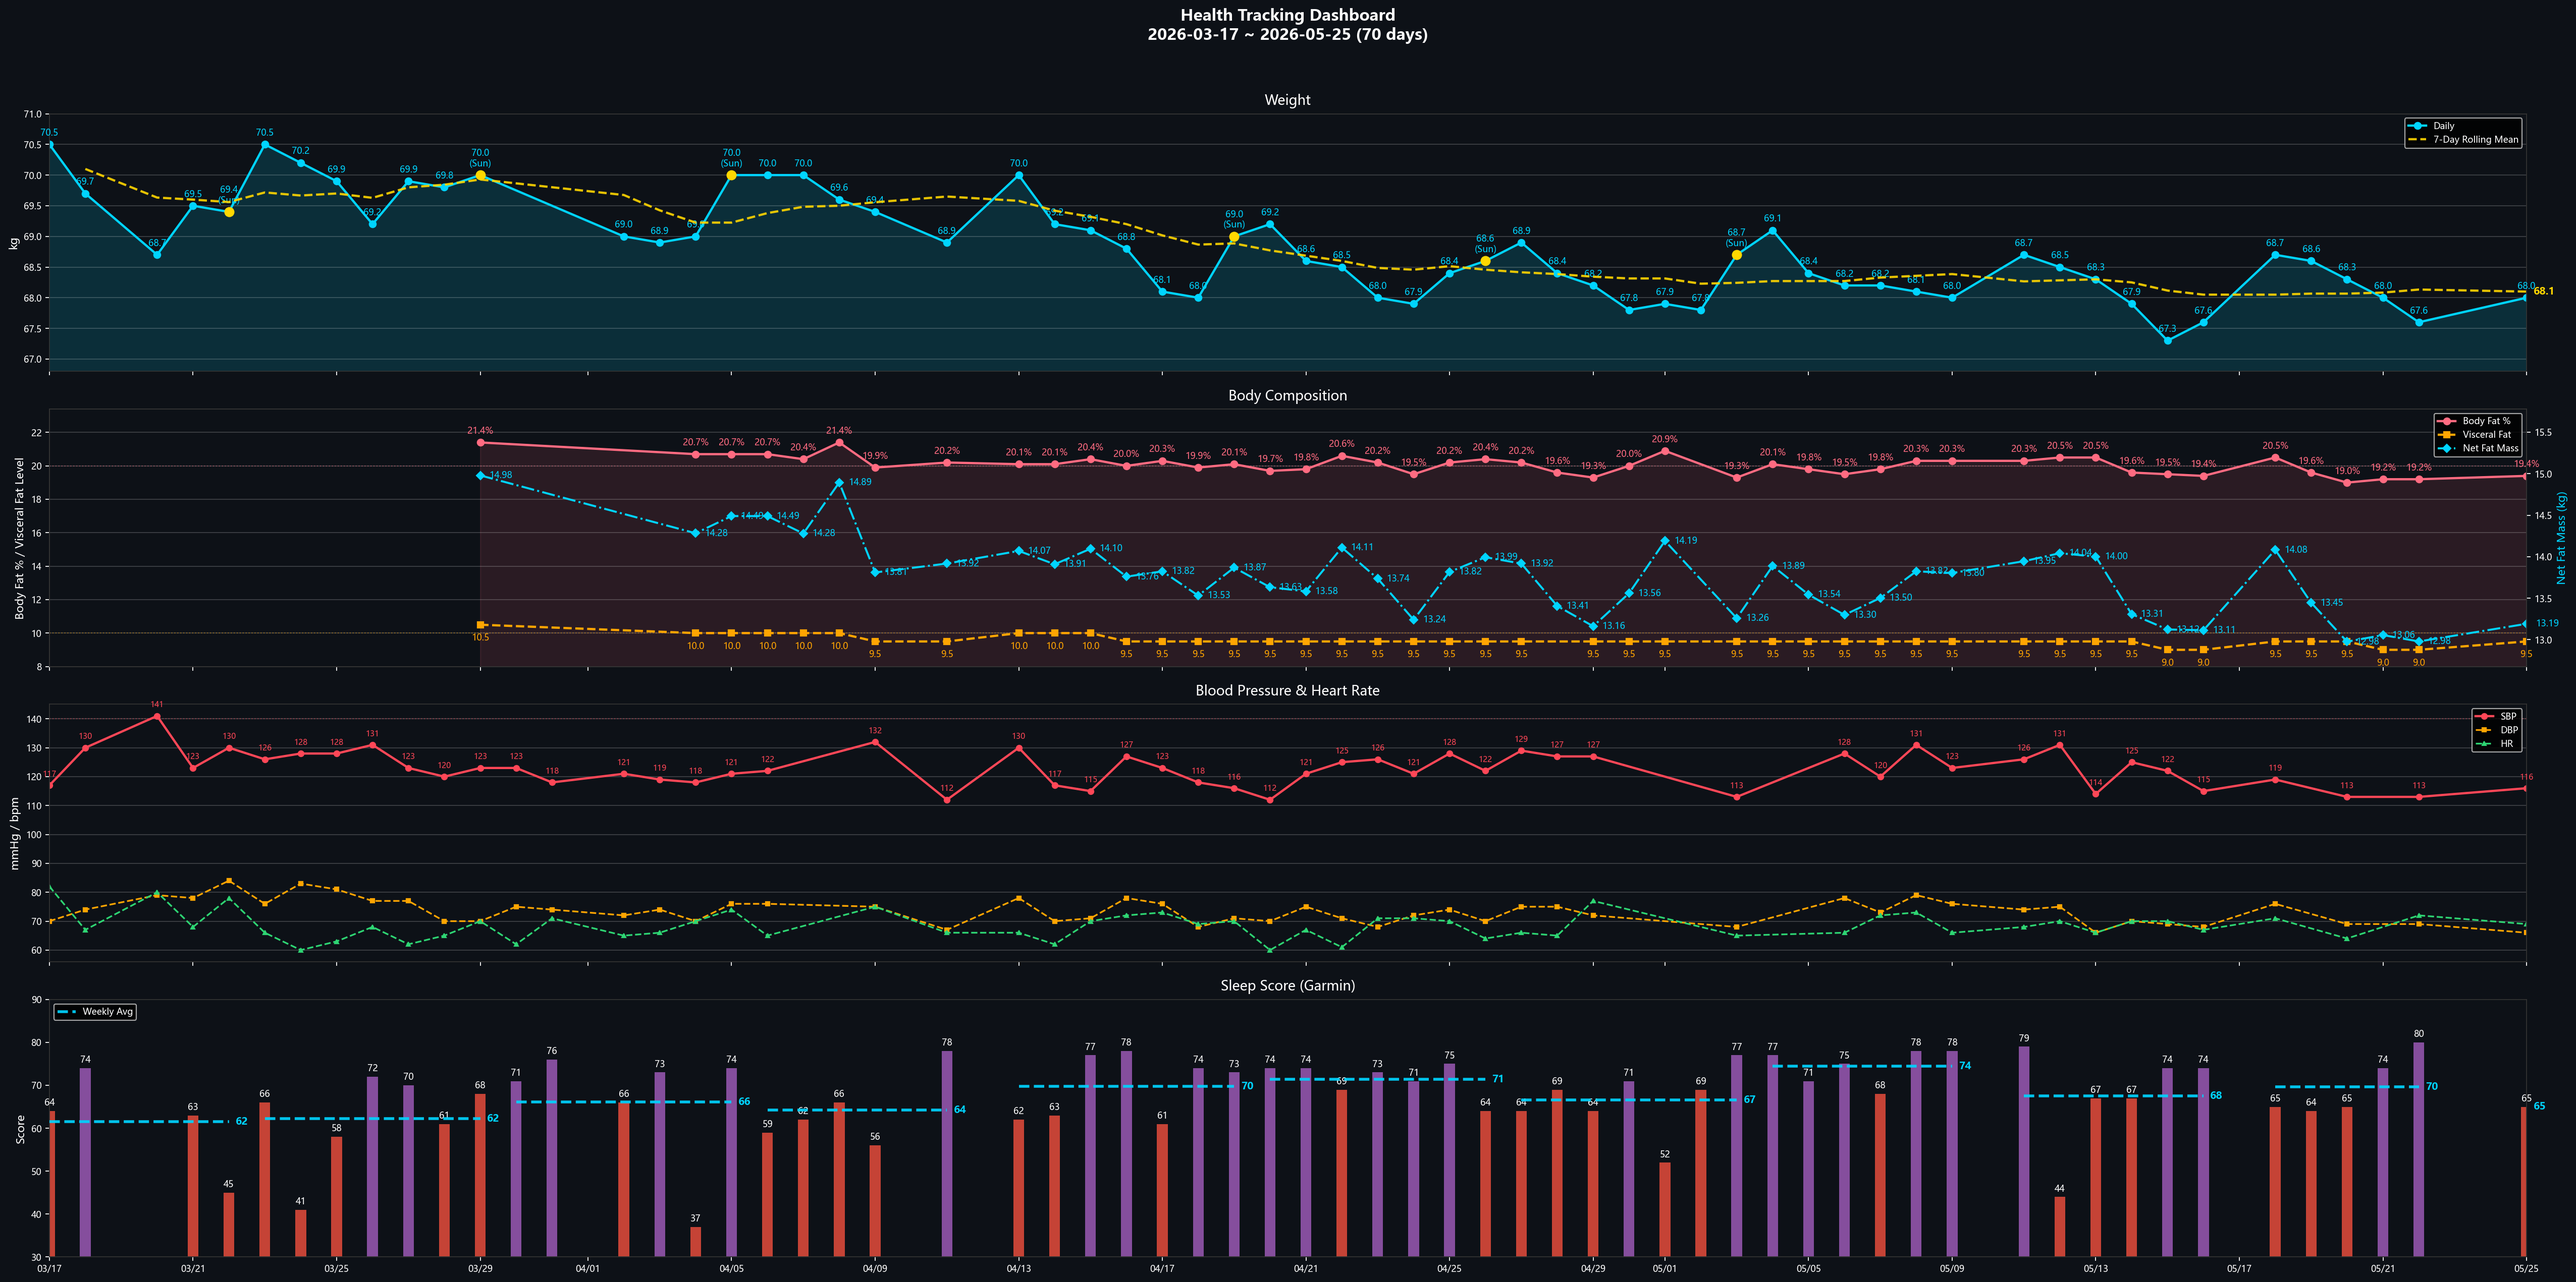
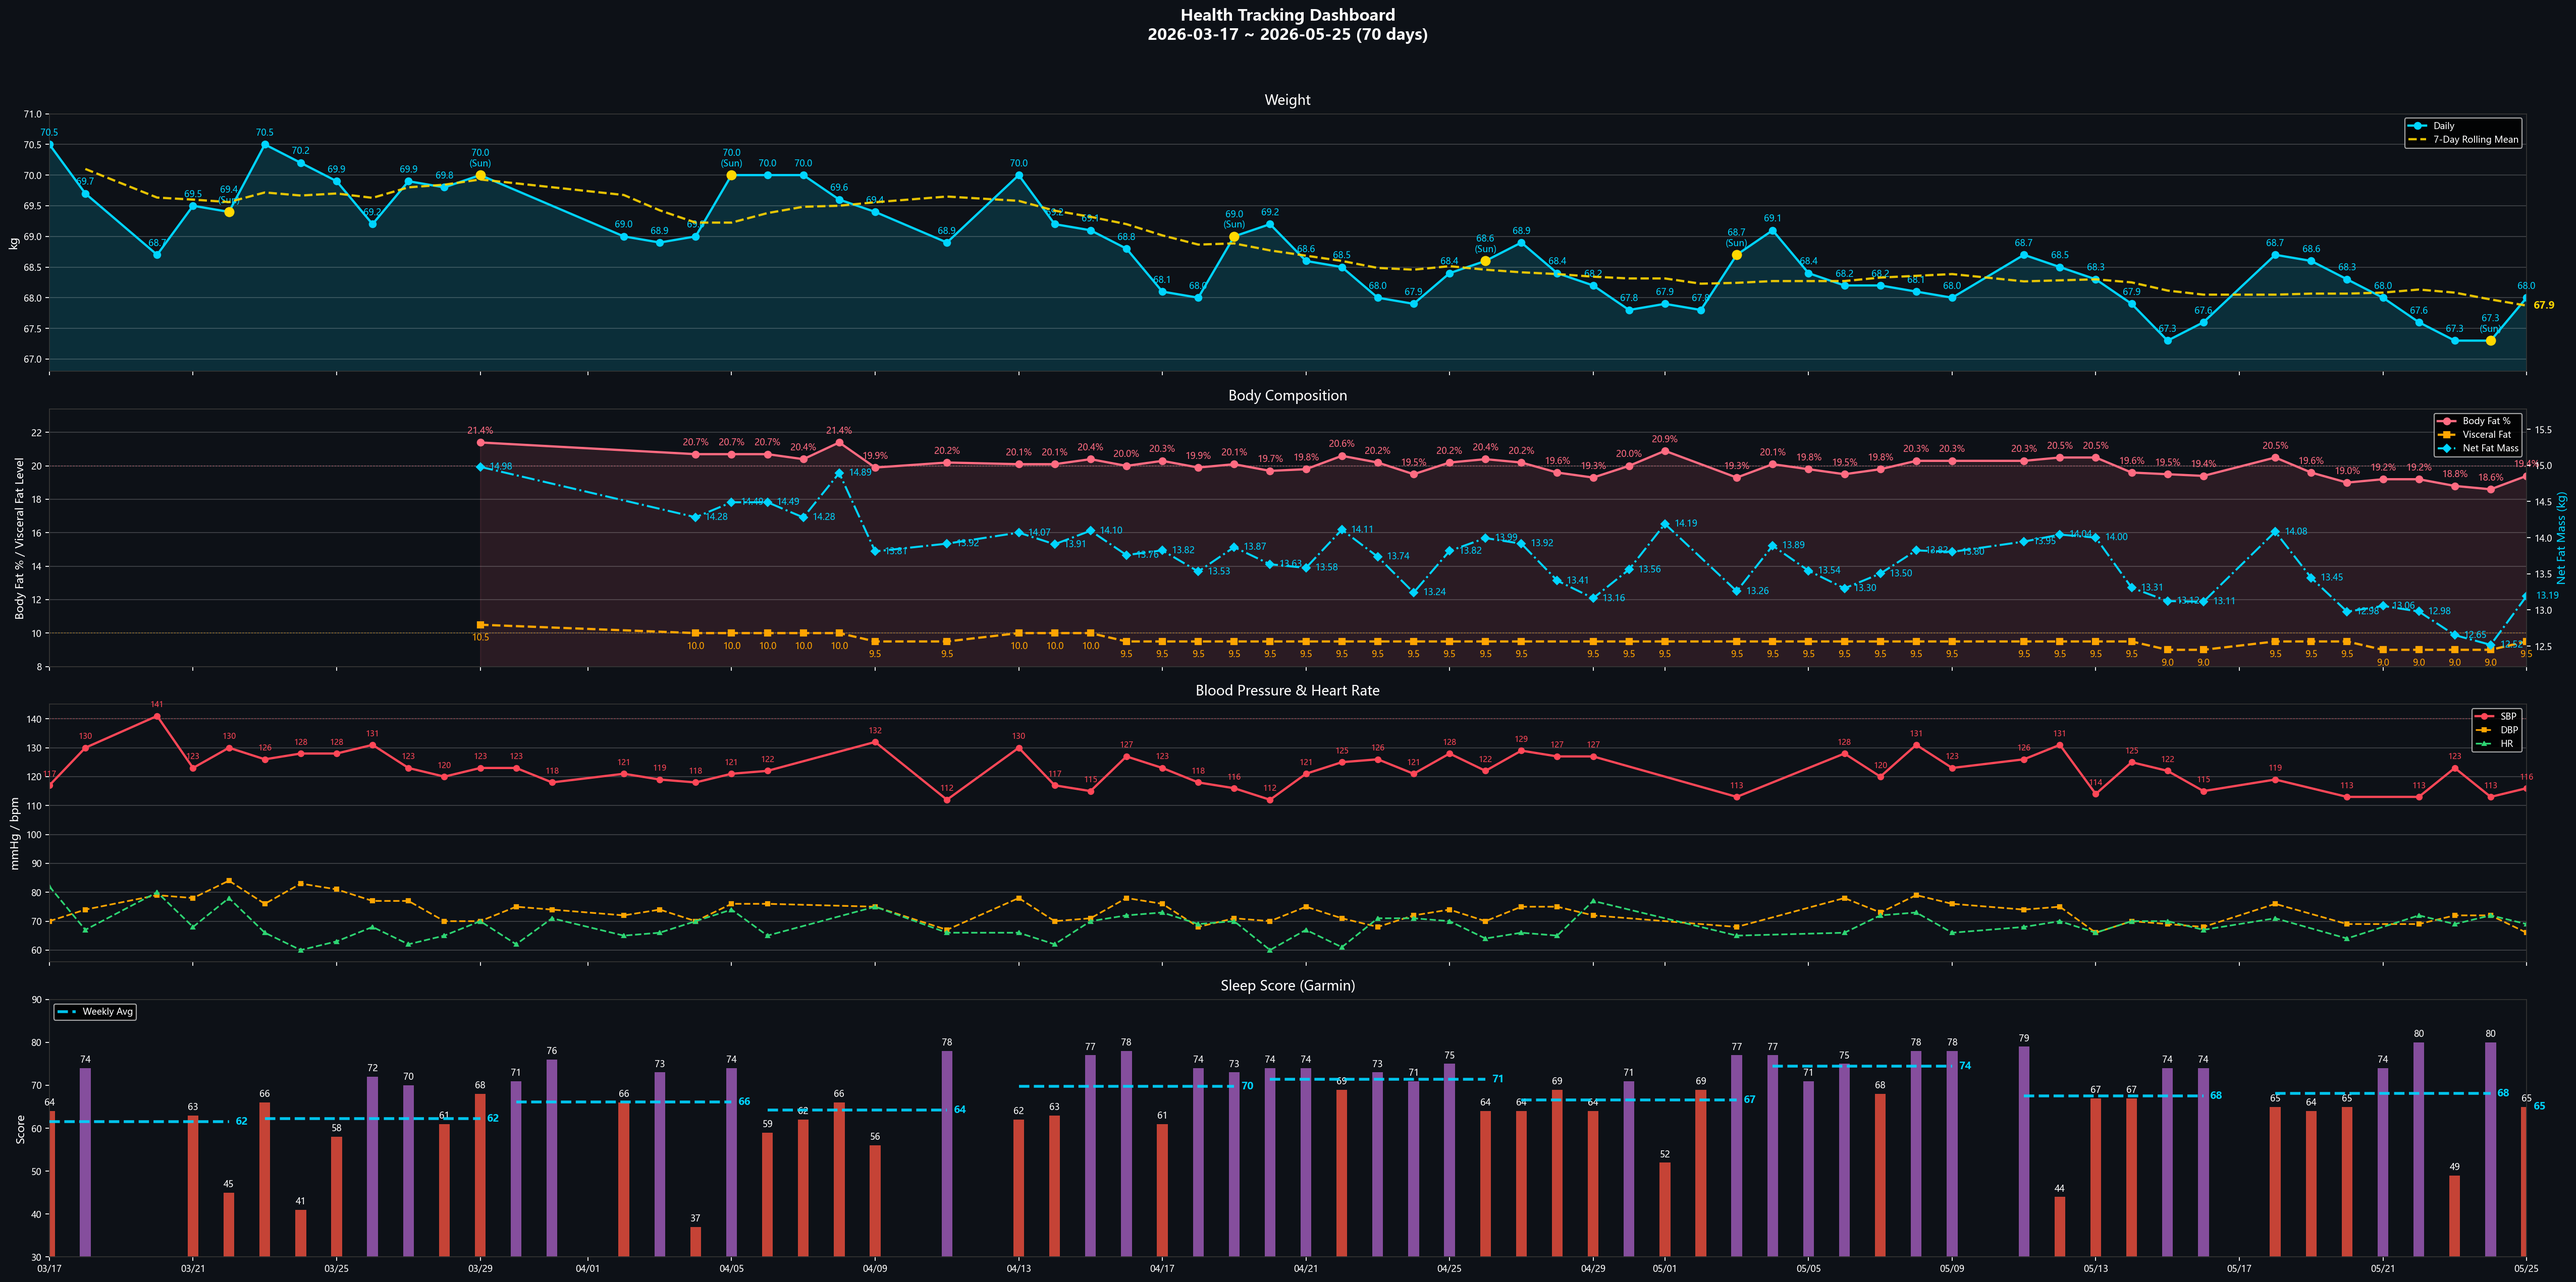
regen dashboard + data.js after rebase

diff --git a/data.js b/data.js
@@ -14,12 +14,12 @@ window.HC_DATA = {
     lede:    { en: "Sleep, BP, lipids, uric acid — one shared metabolic root. Lifestyle stacks first; medication only after lifestyle plateaus.",
                zh: "睡眠、血壓、血脂、尿酸——共享同一個代謝根源。生活方式介入優先，等到效果平台期再考慮藥物。" },
     progressLbl: { en: "Weight progress · 70 → 65 kg", zh: "體重進度 · 70 → 65 公斤" },
-    progressMeta: { en: "Day 70 · 67.6 kg · Sat official (5/16)", zh: "第 70 天 · 67.6 公斤 · 週六正式（5/16）" },
+    progressMeta: { en: "Day 70 · 67.3 kg · Sat official (5/23)", zh: "第 70 天 · 67.3 公斤 · 週六正式（5/23）" },
     startDate: { en: "Start date · Mar 17, 2026 · Last sync 5/25", zh: "起始日期 · 2026 年 3 月 17 日 · 最後同步 5/25" },
     startWeight: 70,
     targetWeight: 65,
-    currentWeight: 67.6,
-    currentWeightDate: "5/16 Sat official",
+    currentWeight: 67.3,
+    currentWeightDate: "5/23 Sat official",
   },
 
   // ===== OSA red-flag banner =====
@@ -43,8 +43,8 @@ window.HC_DATA = {
   markers: [
     {
       sys: "heart", name: { en: "Blood Pressure", zh: "血壓" },
-      val: "115/71", unit: "mmHg",
-      delta: { en: "W21 weekly avg (3 days) · target met (<130) · last 116/66 (5/25)", zh: "W21 週均（3 天）· 已達標 (<130) · 最新 116/66 (5/25)" },
+      val: "116/72", unit: "mmHg",
+      delta: { en: "W21 weekly avg (5 days) · target met (<130) · last 116/66 (5/25)", zh: "W21 週均（5 天）· 已達標 (<130) · 最新 116/66 (5/25)" },
       cadence: { en: "Daily · weekly avg", zh: "每日 · 週均" },
       status: "ok",
     },
@@ -57,8 +57,8 @@ window.HC_DATA = {
     },
     {
       sys: "weight", name: { en: "Weight", zh: "體重" },
-      val: "67.6", unit: "kg",
-      delta: { en: "5/16 Sat official · auto-synced", zh: "5/16 週六正式 · 自動同步" },
+      val: "67.3", unit: "kg",
+      delta: { en: "5/23 Sat official · auto-synced", zh: "5/23 週六正式 · 自動同步" },
       cadence: { en: "Daily · Sat official", zh: "每日 · 週六正式" },
       status: "ok",
     },
@@ -918,14 +918,14 @@ window.HC_DATA = {
   tracker: {
     // [SBP, DBP] — gaps filled with prior reading
     bp: [
-      [131,79], [123,76], [126,74], [131,75], [114,66], [125,70], [122,69], [115,68], [119,76], [119,76], [113,69], [113,69], [113,69], [116,66],
+      [126,74], [131,75], [114,66], [125,70], [122,69], [115,68], [119,76], [119,76], [113,69], [113,69], [113,69], [123,72], [113,72], [116,66],
     ],
     // daily weight (kg)
-    weight: [68.1, 68, 68.7, 68.5, 68.3, 67.9, 67.3, 67.6, 68.7, 68.6, 68.3, 68, 67.6, 68],
+    weight: [68.7, 68.5, 68.3, 67.9, 67.3, 67.6, 68.7, 68.6, 68.3, 68, 67.6, 67.3, 67.3, 68],
     // Garmin Sleep Score
-    sleep:  [78, 78, 79, 44, 67, 67, 74, 74, 65, 64, 65, 74, 80, 65],
+    sleep:  [79, 44, 67, 67, 74, 74, 65, 64, 65, 74, 80, 49, 80, 65],
     // Body Battery waking
-    bb:     [37, 48, 55, 36, 42, 34, 51, 63, 48, 62, 54, 61, 56, 55],
+    bb:     [55, 36, 42, 34, 51, 63, 48, 62, 54, 61, 56, 34, 59, 55],
     // SpO2 nightly nadir % (last 14 days, parallel to bp/weight/sleep/bb).
     // Earlier nights null until sync_data_js.py backfills; banner only uses trailing values.
     spo2Nadir: [null, null, null, null, null, 84, 79, 87, 85, 84, 84, 86, 82, 84],
